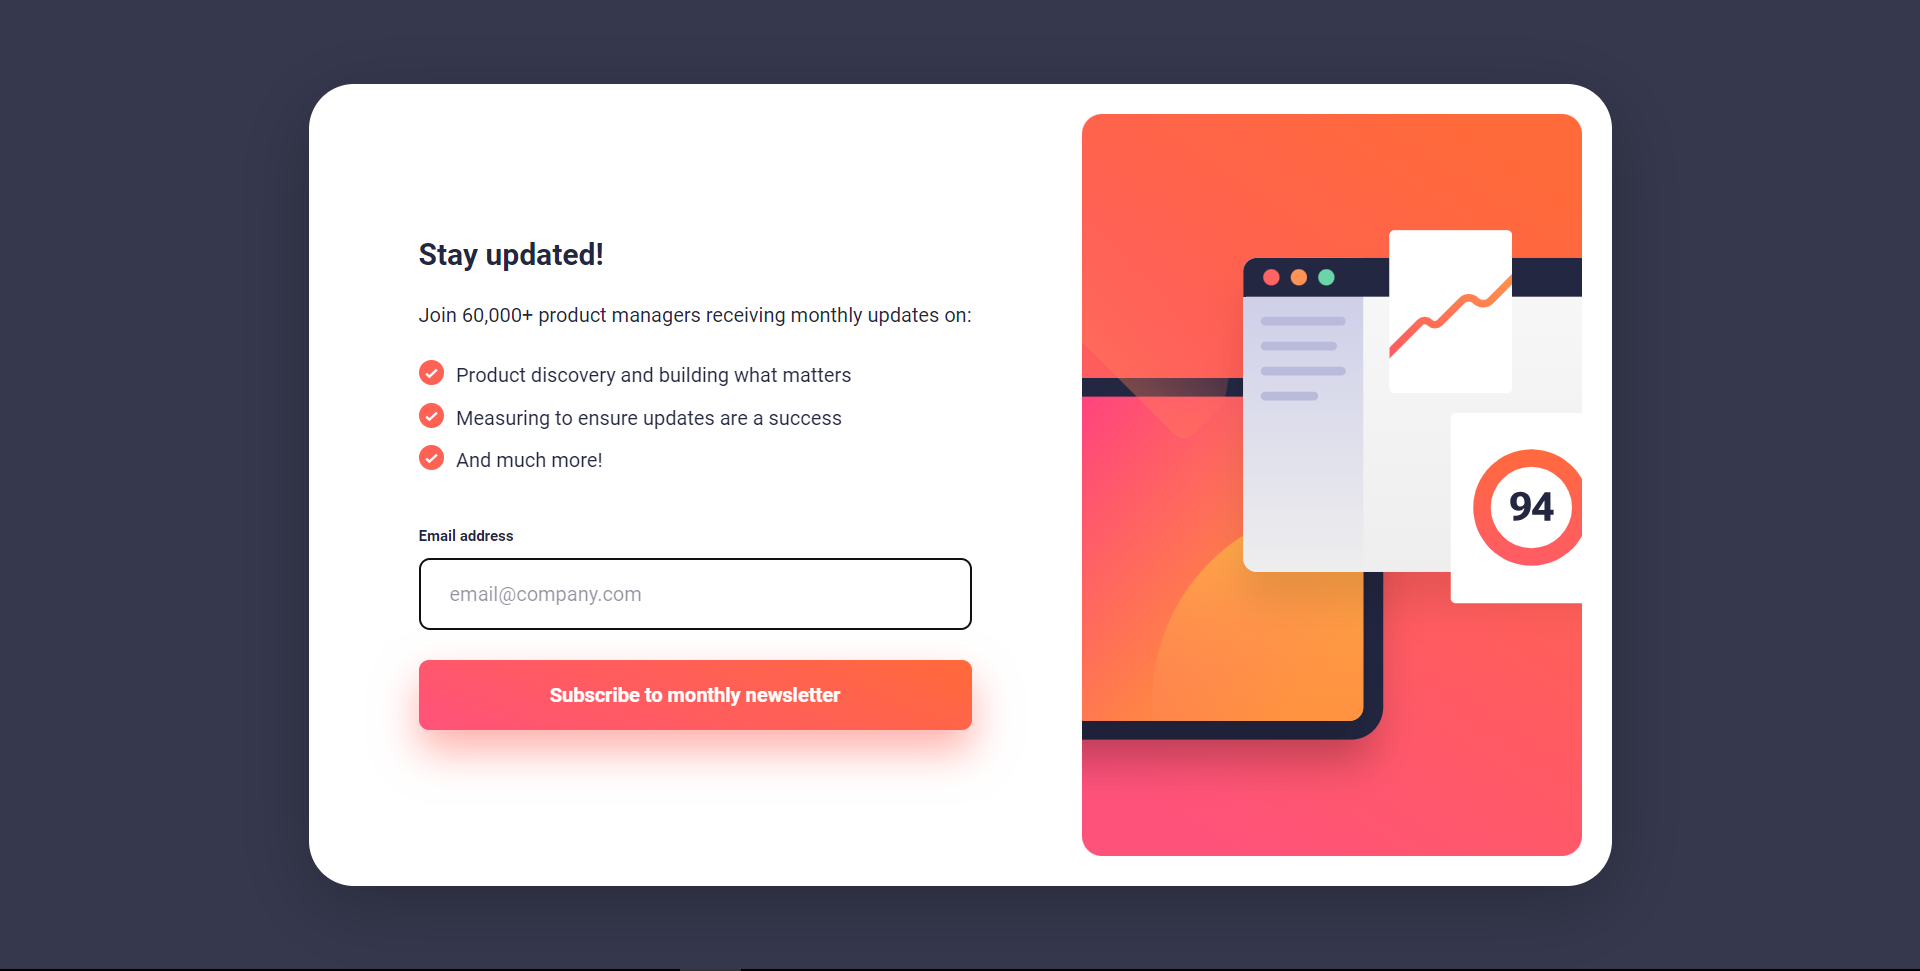
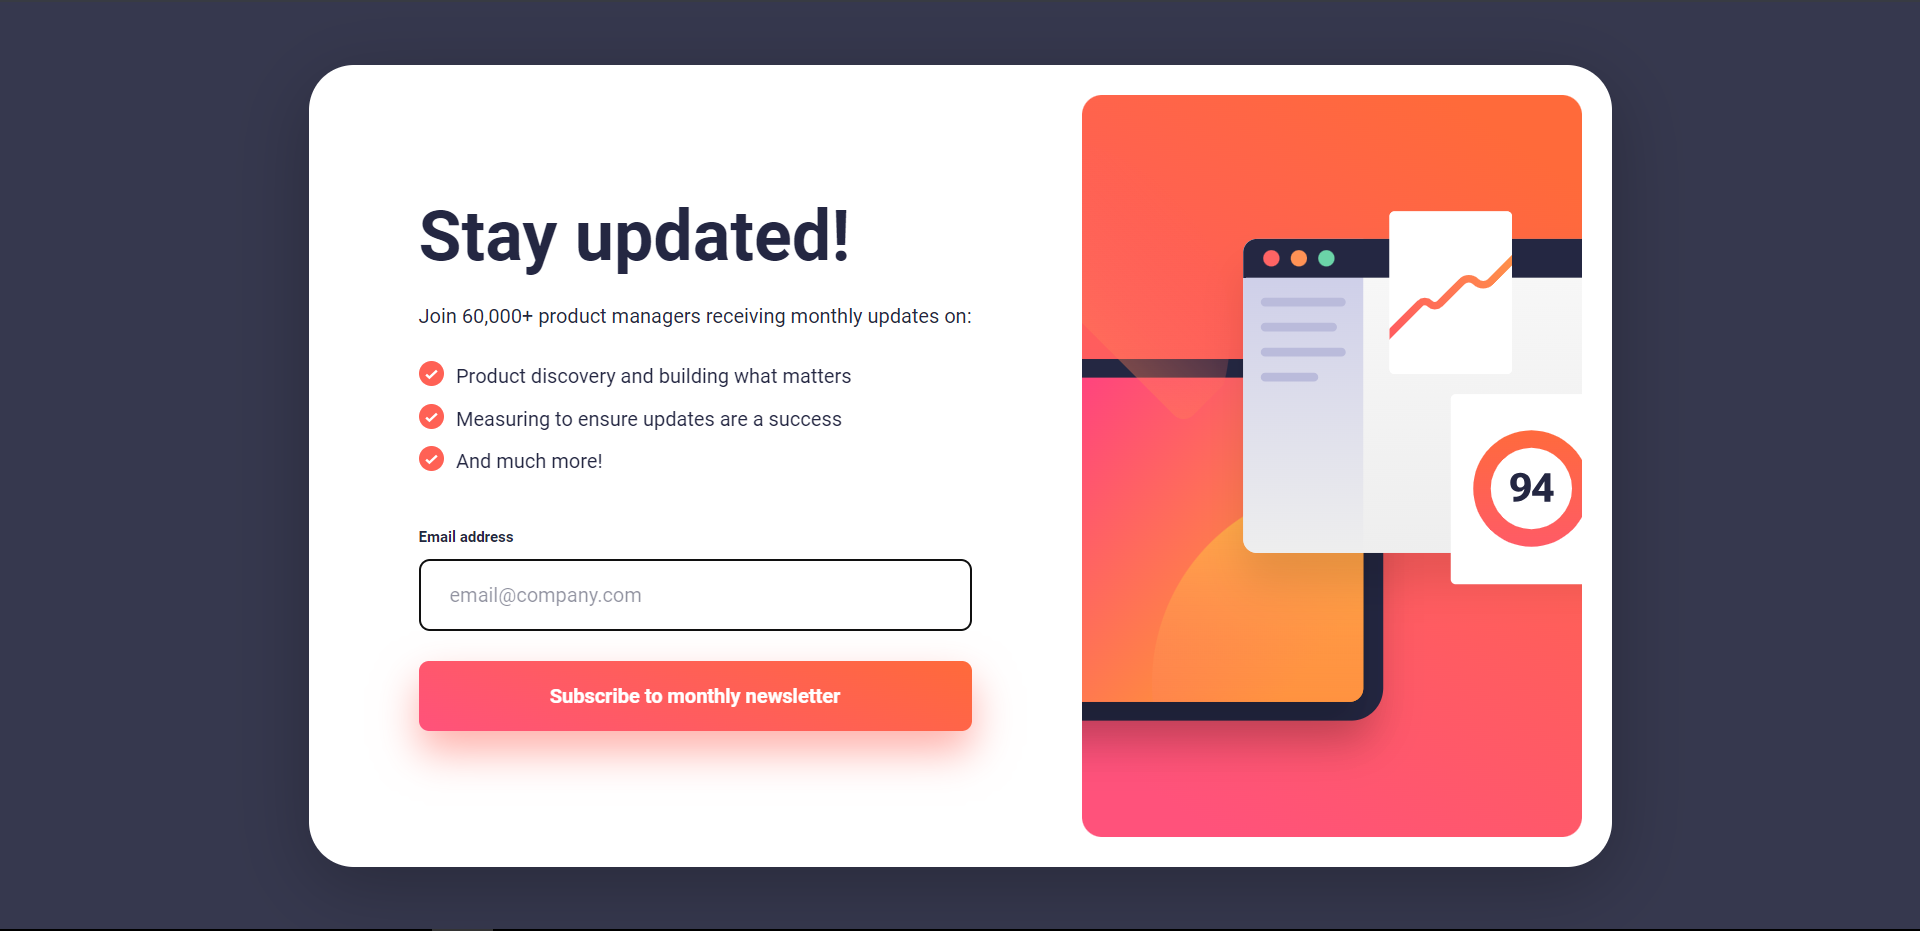
Complete

diff --git a/style.css b/style.css
@@ -125,7 +125,7 @@ body {
 
 .title {
   font-weight: var(--fw-700);
-  font-style: 2.5rem;
+  font-size: 2.5rem;
   line-height: 100%;
   color: var(--dark-slate-grey);
 }
@@ -278,10 +278,11 @@ input::placeholder {
 
   .wrapper__text-form {
     padding: 0;
-    max-width: 23.5rem;
+    /* max-width: 23.5rem; */
+    max-width: 30rem;
   }
 
-  .heading {
+  .title {
     font-size: 3.5rem;
   }
 

diff --git a/README.md b/README.md
@@ -1,6 +1,6 @@
 # Frontend Mentor - Newsletter sign-up form with success message solution
 
-This is a solution to the [Newsletter sign-up form with success message challenge on Frontend Mentor](https://www.frontendmentor.io/challenges/newsletter-signup-form-with-success-message-3FC1AZbNrv). Frontend Mentor challenges help you improve your coding skills by building realistic projects. 
+This is a solution to the [Newsletter sign-up form with success message challenge on Frontend Mentor](https://www.frontendmentor.io/challenges/newsletter-signup-form-with-success-message-3FC1AZbNrv). Frontend Mentor challenges help you improve your coding skills by building realistic projects.
 
 ## Table of contents
 
@@ -11,12 +11,7 @@ This is a solution to the [Newsletter sign-up form with success message challeng
 - [My process](#my-process)
   - [Built with](#built-with)
   - [What I learned](#what-i-learned)
-  - [Continued development](#continued-development)
-  - [Useful resources](#useful-resources)
 - [Author](#author)
-- [Acknowledgments](#acknowledgments)
-
-**Note: Delete this note and update the table of contents based on what sections you keep.**
 
 ## Overview
 
@@ -34,20 +29,30 @@ Users should be able to:
 
 ### Screenshot
 
-![](./screenshot.jpg)
+#### Desktop
 
-Add a screenshot of your solution. The easiest way to do this is to use Firefox to view your project, right-click the page and select "Take a Screenshot". You can choose either a full-height screenshot or a cropped one based on how long the page is. If it's very long, it might be best to crop it.
+![](./screenshots/Desktop.png)
 
-Alternatively, you can use a tool like [FireShot](https://getfireshot.com/) to take the screenshot. FireShot has a free option, so you don't need to purchase it. 
+#### Active States
 
-Then crop/optimize/edit your image however you like, add it to your project, and update the file path in the image above.
+![](./screenshots/Active-states.png)
 
-**Note: Delete this note and the paragraphs above when you add your screenshot. If you prefer not to add a screenshot, feel free to remove this entire section.**
+#### Error State
+
+![](./screenshots/Error.png)
+
+#### Success State
+
+![](./screenshots/Success.png)
+
+#### Mobile
+
+![](./screenshots/Mobile.png)
 
 ### Links
 
-- Solution URL: [Add solution URL here](https://your-solution-url.com)
-- Live Site URL: [Add live site URL here](https://your-live-site-url.com)
+- Solution URL: [GitHub](https://github.com/Ibtehaj-Ali-1/Newsletter-sign-up-form)
+- Live Site URL: [Newsletter Sign-up Form](https://newsletter-sign-up-form-self.vercel.app/)
 
 ## My process
 
@@ -58,59 +63,16 @@ Then crop/optimize/edit your image however you like, add it to your project, and
 - Flexbox
 - CSS Grid
 - Mobile-first workflow
-- [React](https://reactjs.org/) - JS library
-- [Next.js](https://nextjs.org/) - React framework
-- [Styled Components](https://styled-components.com/) - For styles
-
-**Note: These are just examples. Delete this note and replace the list above with your own choices**
+- JavaScript for form validation
 
 ### What I learned
 
-Use this section to recap over some of your major learnings while working through this project. Writing these out and providing code samples of areas you want to highlight is a great way to reinforce your own knowledge.
-
-To see how you can add code snippets, see below:
-
-```html
-<h1>Some HTML code I'm proud of</h1>
-```
-```css
-.proud-of-this-css {
-  color: papayawhip;
-}
-```
-```js
-const proudOfThisFunc = () => {
-  console.log('🎉')
-}
-```
-
-If you want more help with writing markdown, we'd recommend checking out [The Markdown Guide](https://www.markdownguide.org/) to learn more.
-
-**Note: Delete this note and the content within this section and replace with your own learnings.**
-
-### Continued development
-
-Use this section to outline areas that you want to continue focusing on in future projects. These could be concepts you're still not completely comfortable with or techniques you found useful that you want to refine and perfect.
-
-**Note: Delete this note and the content within this section and replace with your own plans for continued development.**
-
-### Useful resources
-
-- [Example resource 1](https://www.example.com) - This helped me for XYZ reason. I really liked this pattern and will use it going forward.
-- [Example resource 2](https://www.example.com) - This is an amazing article which helped me finally understand XYZ. I'd recommend it to anyone still learning this concept.
-
-**Note: Delete this note and replace the list above with resources that helped you during the challenge. These could come in handy for anyone viewing your solution or for yourself when you look back on this project in the future.**
+- How to create a responsive form with CSS Grid and Flexbox
+- How to use JavaScript to validate form inputs
+- How to create a success and error message using JavaScript
+- How to use CSS custom properties to make the code more readable and maintainable
 
 ## Author
 
-- Website - [Add your name here](https://www.your-site.com)
-- Frontend Mentor - [@yourusername](https://www.frontendmentor.io/profile/yourusername)
-- Twitter - [@yourusername](https://www.twitter.com/yourusername)
-
-**Note: Delete this note and add/remove/edit lines above based on what links you'd like to share.**
-
-## Acknowledgments
-
-This is where you can give a hat tip to anyone who helped you out on this project. Perhaps you worked in a team or got some inspiration from someone else's solution. This is the perfect place to give them some credit.
-
-**Note: Delete this note and edit this section's content as necessary. If you completed this challenge by yourself, feel free to delete this section entirely.**
+- Website - [Ibtehaj Ali Mirza](https://github.com/Ibtehaj-Ali-1)
+- Frontend Mentor - [@Ibtehaj-Ali-1](https://www.frontendmentor.io/profile/Ibtehaj-Ali-1)
